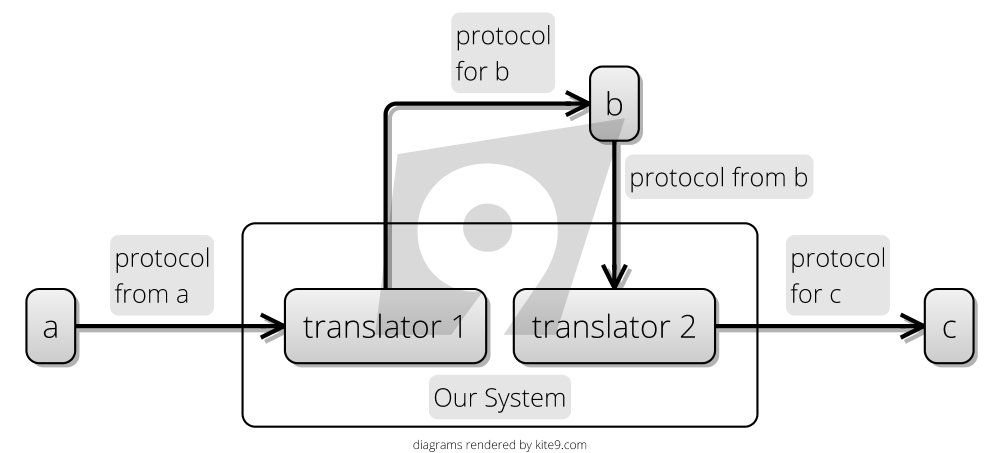
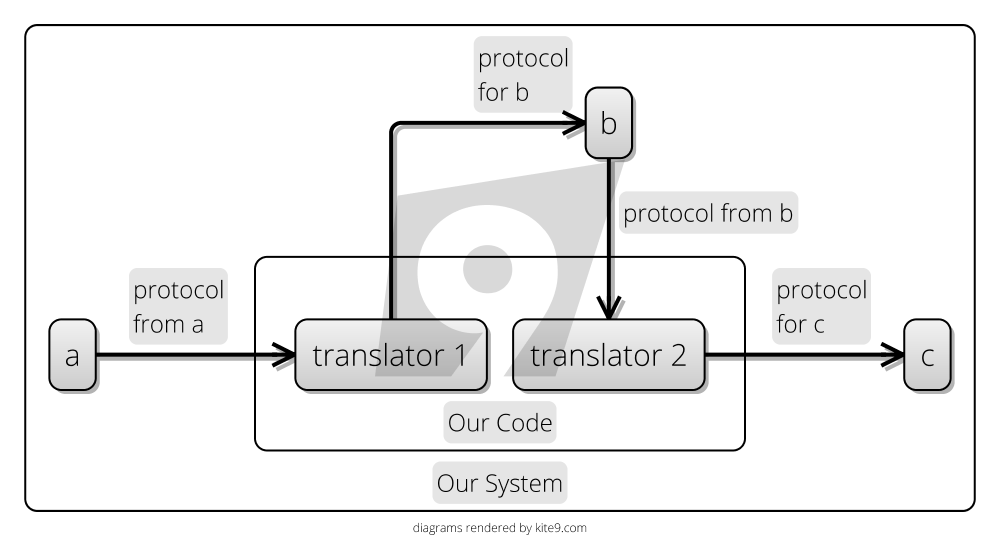
Boundary Risk

Changed region(s): [[0.0, 0.0309, 0.992, 1.0], [0.465, 0.5254, 0.496, 0.5563]]

diff --git a/menagerie/Boundary-Risk.md b/menagerie/Boundary-Risk.md
@@ -10,76 +10,86 @@ In terms of the [Risk Landscape](Risk-Landscape), [Boundary Risk](Boundary-Risk)
 
 And, as we discussed in [Complexity Risk](Complexity-Risk), there is always the chance we end up at a [Dead End](Complexity-Risk#dead-end-risk), and we've done work that we need to throw away.  In this case, we'll have to head back and make a different decision.
 
-## Emergence
+## Emergence Through Choice
 
 [Boundary Risk](Boundary-Risk) is an emergent risk, which exists at the intersection of [Complexity Risk](Complexity-Risk), [Dependency Risk](Dependency-Risk) and [Communication Risk](Communication-Risk).  Because of that, it's going to take a bit of time to pick it apart and understand it, so we're going to build up to this in stages.
 
-Let's start with an obvious example: Musical Instruments.  Let's say you want to learn to play some music.  There are a _multitude_ of options available to you, and you might choose an _uncommon_ instrument like a [Balalaika]() or a [Theremin](https://en.wikipedia.org/wiki/Theremin), or you might choose a _common_ one like a piano or guitar.   In any case, once you start learning this instrument, you have picked up the three risks above:  
+Let's start with an obvious example: Musical Instruments.  Let's say you want to learn to play some music.  There are a _multitude_ of options available to you, and you might choose an _uncommon_ instrument like a [Balalaika](https://en.wikipedia.org/wiki/Balalaika) or a [Theremin](https://en.wikipedia.org/wiki/Theremin), or you might choose a _common_ one like a piano or guitar.   In any case, once you start learning this instrument, you have picked up the three risks above:  
  - [Dependency Risk](Dependency-Risk) You have a _physical_ [Dependency]() on it in order to play music, so get to the music shop and buy one.
  - [Communication Risk](Communication-Risk):  You have to _communicate_ with the instrument in order to get it to make the sounds you want.  And you have [Learning Curve Risk](Communication-Risk#learning-curve-risk) in order to be able to do that.
  - [Complexity Risk](Complexity-Risk): As _a music playing system_, you now have an extra component (the instrument), with all the attendant complexity of looking after that instrument, tuning it, and so on.
 
-Those risks are true for _any_ instrument you choose.  However, if you choose the _uncommon_ instrument like the [Balalaika](), you have _worse_ [Boundary Risk](Boundary-Risk), because the _ecosystem_ for the balalaika is smaller.   It might be hard to find a tutor, or a band needing a balalaika.  You're unlikely to find one in a friend's house (compared to the piano, say).  
+Those risks are true for _any_ instrument you choose.  However, if you choose the _uncommon_ instrument like the [Balalaika](https://en.wikipedia.org/wiki/Balalaika), you have _worse_ [Boundary Risk](Boundary-Risk), because the _ecosystem_ for the balalaika is smaller.   It might be hard to find a tutor, or a band needing a balalaika.  You're unlikely to find one in a friend's house (compared to the piano, say).  
 
 Even choosing the Piano has [Boundary Risk](Boundary-Risk).  By spending your time learning to play the piano, you're mitigating [Communication Risk]() issues, but _mostly_, your skills won't be transferrable to playing the guitar.  Your decision to choose one instrument over another cements the [Boundary Risk](Boundary-Risk): you're following a path on the [Risk Landscape](Risk-Landscape) and changing to a different path is _expensive_.
 
 Also, it stands to reason that making _any_ choice is better than making _no_ choice, because you can't try and learn _all_ the instruments.  Doing that, you'd make no meaningful progress on any of them.
 
-## Integration And Translation
+## Boundary Risk For Software Dependencies
 
 Let's look at a software example now.
 
-As discussed in [Software Dependency Risk](Software-Dependency-Risk), if we are going to use a software tool as a dependency, we have to accept the complexity of it's [Interface](Software-Dependency-Risk#interfaces). 
+As discussed in [Software Dependency Risk](Software-Dependency-Risk), if we are going to use a software tool as a dependency, we have to accept the complexity of it's [Interface](Software-Dependency-Risk#interfaces), and learn the [protocol](Communication-Risk#protocol) of that interface.  If you want to work with it, you have to use it's protocol, it won't come to you.   
 
-Essentially, the interface is a [protocol](Communication-Risk#protocol):  it's the language that the tool understands.  If you want to work with it, you have to use it's protocol, it won't come to you.   
+Let's take a look at a hypothetical system structure:
 
-Let's take a look at a hypothetical project structure:
+![Our System receives data from the `input`, translates it and sends it to the `output`.  But which dependency should we use for the translation, if any?](images/kite9/boundary-risk-ps.png)
 
-![Our System receives data from `a`, translates it for `b` and then sends the result to `c` in a format it understands](images/kite9/boundary-risk-ps.png)
-
-In this design, we have 3 dependencies, `a`, `b`, `c`.  As you can see, `Our System` is orchestrating the flow of information between them:
- - First, it receives something from `a`, using the [Protocol](Communication-Risk#protocol-risk) of `a`.
- - Then, it **Translates** this into the [Protocol](Communication-Risk#protocol-risk) of `b`, retrieving something back from `b`.
- - Then, it **Translates** that into the [Protocol](Communication-Risk#protocol-risk) of `c`.
+In this design, we have are transforming data from the `input` to the `output`.  But how should we do it?
+ - We could go via `a`, using the [Protocols](Communication-Risk#protocol-risk) of `a`, and having a dependency on `a`.
+ - We could go via `b`, using the [Protocols](Communication-Risk#protocol-risk) of `b`, and having a dependency on `b`. 
+ - We could choose the middle route, and avoid the dependency, but potentially pick up lots more [Complexity Risk](Complexity-Risk) and [Schedule Risk](Schedule-Risk).
  
-You could say we are doing **Integration** of the different dependencies, or **Translation** between those dependencies.  Since we are talking about **Translation**, we are clearly talking about [Communication Risk](Communication-Risk) again:  our task in **Integrating** all of these components is _to get them to talk to each other_.
+This is a basic **Translation** job from `input` to `output`. Since we are talking about **Translation**, we are clearly talking about [Communication Risk](Communication-Risk) again:  our task in **Integrating** all of these components is _to get them to talk to each other_.
 
-From a [Cyclomatic Complexity]() point of view, this is a very simple structure, with low [Complexity](Complexity-Risk).  But each of these systems presents us with [Boundary Risk](Boundary-Risk), because we don't know that we'll be able to make them _talk to each other_ properly:
- - Maybe `a` outputs dates, in a strange calendar format that `b` won't understand.
- - Maybe `b` works on some streaming API basis, that is incompatible with `a`.
- - Maybe `c` runs on Windows, whereas `a` and `b` run on Linux.
+From a [Cyclomatic Complexity](Complexity-Risk#cyclomatic-complexity) point of view, this is a very simple structure, with low [Complexity](Complexity-Risk).  But the choice of approach presents us with [Boundary Risk](Boundary-Risk), because we don't know that we'll be able to make them _talk to each other_ properly:
+ - Maybe `a` outputs dates in a strange calendar format that we won't understand.
+ - Maybe `b` works on some streaming API basis, that is incompatible with the input protocol.
+ - Maybe `a` runs on Windows, whereas our code runs on Linux.
+ 
+... and so on.
 
-## Boundary Risk Defined
+## Boundary Risk Pinned Down
 
-Wherever we integrate dependencies with complex [Interfaces], we have [Boundary Risk].  The more complex the systems being integrated, the higher the risk.  When we choose software tools or libraries to help us build our systems, we are trading [Complexity Risk](Complexity-Risk) for [Boundary Risk](Boundary-Risk). It is:
+Wherever we integrate dependencies with complex [Protocols](Communication-Risk#protocol-risk), we potentially have [Boundary Risk](Boundary-Risk).  The more complex the systems being integrated, the higher the risk.  When we choose software tools or libraries to help us build our systems, we are trading [Complexity Risk](Complexity-Risk) for [Boundary Risk](Boundary-Risk). It is:
 
- - The _sunk cost_ of the [Learning Curve]() we've overcome to integrate the dependency.
- - The likelihood of, and costs of changing in the future.
+ - The _sunk cost_ of the [Learning Curve](Communication-Risk#learning-curve-risk) we've overcome to integrate the dependency, when it fails to live up to expectations.
+ - The likelihood of, and costs of changing in the future.  
+ - The rarity of alternatives (or, conversely, the risk of [Lock In](#vendor-lock-in). 
+ 
+![The tradeoff for using a library](images/kite9/software-dependency-library.png)
 
-We can mitigate attendant [Boundary Risk] by trying to choose the _simplest_ dependencies for any job, and also the smallest number of dependencies.  Let's look at some examples:
+As we saw in [Software Dependency Risk](Software-Dependency-Risk), [Boundary Risk](Boundary-Risk) is a big factor in choosing libraries and services.  However, it can apply to any kind of dependency:
+ - If you're depending on a [Process or Organisation](Process-Risk), they might change their products or quality, making the effort you put into the relationship worthless.
+ - If you're depending on [Staff](Agency-Risk#staff-risk), they might leave, meaning your efforts on training them don't pay back as well as you hoped.
+ - If you're depending on an [Event](Schedule-Risk) occuring at a particular time, you might have a lot of work to reorganise your life if it changes time or place.
 
-- `mkdirp` is an `npm` module defining a single function.  This function takes a single string parameter and recursively creating directories.  Because the [protocol](Communication-Risk) is so simple, there is almost no **Boundary Risk**.
-- Using a database with a standard JDBC driver comes with _some_ **Boundary Risk**:  but the boundary is specified by a standard.  Although the standard doesn't cover every aspect of the behaviour of the database, it does minimize risk, because if you are familiar with one JDBC driver, you'll be familiar with them all, and swapping one for another is relatively easy.
-- Using a framework like [Spring](), [Redux]() or [Angular]() comes with higher boundary risk:  you are expected to yield to the framework's way of behaving throughout your application.  You cannot separate the concern easily, and swapping out the framework for another is likely to leave you with a whole new set of assumptions and interfaces to deal with.
+## Avoiding Boundary Risk
 
-So **Boundary Risk** is the attendant [Complexity](Complexity-Risk) required to [Communicate]() with [Dependencies](Dependency-Risk).  Unless the project _ends_, (and you have nowhere else to go on the [Risk Landscape]()) you can never be completely sure that [Boundary Risk](Boundary-Risk) _isn't_ going to stop you making a move you want.  For example:
+Because of [Boundary Risk](Boundary-Risk)'s relationship to [Learning Curve Risk](Communication-Risk#learning-curve-risk), we can avoid accreting it by choose the _simplest_ and _fewest_ dependencies for any job.  Let's look at some examples:
+
+- `mkdirp` is an [npm](https://www.npmjs.com) module defining a single function.  This function takes a single string parameter and recursively creating directories.  Because the [protocol](Communication-Risk) is so simple, there is almost no [Boundary Risk](Boundary-Risk).
+- Using a database with a [JDBC](https://en.wikipedia.org/wiki/Java_Database_Connectivity) driver comes with _some_ [Boundary Risk](Boundary-Risk):  but the boundary is specified by a standard.  Although the standard doesn't cover every aspect of the behaviour of the database, it does minimize risk, because if you are familiar with one JDBC driver, you'll be familiar with them all, and swapping one for another is relatively easy.
+- Using a framework like [Spring](https://spring.io), [Redux](https://redux.js.org) or [Angular](https://angularjs.org) comes with higher [Boundary Risk](Boundary-Risk):  you are expected to yield to the framework's way of behaving throughout your application.  You cannot separate the concern easily, and swapping out the framework for another is likely to leave you with a whole new set of assumptions and interfaces to deal with.
+
+Unless your project _ends_, you can never be completely sure that [Boundary Risk](Boundary-Risk) _isn't_ going to stop you making a move you want.  For example:
  - `mkdirp` might not work on a new device's [Operating System](), forcing you to swap it out.
  - You might discover that the database you chose satisfied all the features you needed at the start of the project, but came up short when the requirements changed later on.
  - The front-end framework you chose might go out-of-fashion, and it might be hard to find developers interested in working on the project because of it.
+ 
+This third point is perhaps the most interesting aspect of [Boundary Risk](Boundary-Risk):  how can we ensure that the decisions we make now are future-proof?  In order to investigate this further, let's look at 3 things:  Plugins, Ecosystems and Evolution (again).  
 
 ## Plugins, Ecosystems and Evolution
 
 ### Plugins 
 
-Let's look at an example.
-
-On the face of it, [WordPress]() and [Drupal]() should be very similar:
- - They are both [Content Management Systems]()
- - They both use a [LAMP (Linux, Apache, MySql, PHP) Stack]()
- - They were both started around the same time.
+On the face of it, [WordPress](https://en.wikipedia.org/wiki/WordPress) and [Drupal](https://en.wikipedia.org/wiki/Drupal) _should_ be very similar:
+ - They are both [Content Management Systems](https://en.wikipedia.org/wiki/Content_management_system)
+ - They both use a [LAMP (Linux, Apache, MySql, PHP) Stack](https://en.wikipedia.org/wiki/LAMP_(software_bundle))
+ - They were both started around the same time (2001 for Drupal, 2003 for WordPress)
  - They are both Open-Source, and have a wide variety of plugins.
 
-In practice, they are very different.  This could be put down to different _design goals_:  it seems that [WordPress]() was focused much more on usability, and an easy learning curve, whereas [Drupal]() supported plugins for building things with complex data formats.  It could also be down to the _design decisions_:  although they both support [Plugins](), they do it in very different ways.  
+In practice, they are very different.  This could be put down to different _design goals_:  it seems that [WordPress](https://en.wikipedia.org/wiki/WordPress) was focused much more on usability, and an easy learning curve, whereas [Drupal](https://en.wikipedia.org/wiki/Drupal) supported plugins for building things with complex data formats.  It could also be down to the _design decisions_:  although they both support [Plugins](), they do it in very different ways.  
 
 (Side note: I wasn't short of go-to examples for this.  I could have picked on [Team City]() and [Jenkins]() here ([Continuous Integration]() tools, or [Maven]() and [Gradle]() (Java build tools).  In all cases, the choice of plugins I have is dependent on the platform I've chosen, despite the fact that the platforms are solving pretty much the same problem. )
 
@@ -93,21 +103,21 @@ You can think of the ecosystem as being like the footprint of a town or a city, 
 
 Systems and Ecosystems.
 
-Ecosystem size is a key determinant of boundary risk:  in a _large_ ecosystem, the diameter of the [boundary] is large, so [Boundary Risk](Boundary-Risk) is low.  Your moves on the [Risk Landscape](Glossary#risk-landscape) are unlikely to collide with it.  The boundary _got large_ because other developers before you hit the boundary and did the work building bridges, roads and pushing it back so that the boundary didn't get in their way.  In a small ecosystem, you are much more likely to come into contact with the edges of the boundary.  _You_ will have to be the developer that pushes back the frontier and builds the roads for the others.  This is hard work.
+Ecosystem size is a key determinant of [Boundary Risk](Boundary-Risk):  in a _large_ ecosystem, the diameter of the [boundary] is large, so [Boundary Risk](Boundary-Risk) is low.  Your moves on the [Risk Landscape](Glossary#risk-landscape) are unlikely to collide with it.  The boundary _got large_ because other developers before you hit the boundary and did the work building bridges, roads and pushing it back so that the boundary didn't get in their way.  In a small ecosystem, you are much more likely to come into contact with the edges of the boundary.  _You_ will have to be the developer that pushes back the frontier and builds the roads for the others.  This is hard work.
 
 ### Evolution
 
-This is a crucial determinant of **Boundary Risk**:  given the same problems, people will approach them and solve them in different ways.  And, this will impact the 'shape' of the abstractions, and the APIs that you end up with.  [Complexity] emerges from the solution, as the solution gets more complex and opinionated, much like the way in which the network of a city will evolve over time in an unpredictable way.
+This is a crucial determinant of [Boundary Risk](Boundary-Risk):  given the same problems, people will approach them and solve them in different ways.  And, this will impact the 'shape' of the abstractions, and the APIs that you end up with.  [Complexity] emerges from the solution, as the solution gets more complex and opinionated, much like the way in which the network of a city will evolve over time in an unpredictable way.
 
 In the real world, there is a tendency for _big cities to get bigger_.  The more people that live there, the more services they provide, and therefore, the more immigrants they attract.  And, it's the same in the software world.  In both cases, this is due to the [Network Effect]:
 
 tbd.
 
-You can see the same effect in the adoption rates of [Wordpress]() and [Drupal]().  
+You can see the same effect in the adoption rates of [WordPress](https://en.wikipedia.org/wiki/WordPress) and [Drupal](https://en.wikipedia.org/wiki/Drupal).  
 
 tbd.  graphs of adoption
 
-Nowadays, the [WordPress]() user base is huge:  approximately tbd 30% of all websites are hosted with [WordPress]().  For [Drupal]() it's tbd.  That it's this way round could be entirely accidental.  Is this because [WordPress]() is _better_ than [Drupal]()? That's arguable.  But, by now _it should be_: there are so many people in this ecosystem:
+Nowadays, the [WordPress](https://en.wikipedia.org/wiki/WordPress) user base is huge:  approximately tbd 30% of all websites are hosted with [WordPress](https://en.wikipedia.org/wiki/WordPress).  For [Drupal](https://en.wikipedia.org/wiki/Drupal) it's tbd.  That it's this way round could be entirely accidental.  Is this because [WordPress](https://en.wikipedia.org/wiki/WordPress) is _better_ than [Drupal](https://en.wikipedia.org/wiki/Drupal)? That's arguable.  But, by now _it should be_: there are so many people in this ecosystem:
  - Creating web sites.
  - Using those sites.
  - Submitting bug requests.
@@ -117,7 +127,7 @@ Nowadays, the [WordPress]() user base is huge:  approximately tbd 30% of all web
  - Creating features.
  - Improving the core platform.
  
-... that by now _it should be miles better_ than [Drupal]().  But, there are other things to consider...
+... that by now _it should be miles better_ than [Drupal](https://en.wikipedia.org/wiki/Drupal).  But, there are other things to consider...
 
 ### The Peter Principle
 
@@ -162,7 +172,7 @@ tbd. diagram here.
 
 ## Boundary-Crossing With Standards
 
-Sometimes, technology comes along that allows us to cross boundaries, like a _bridge_ or a _road_.  This has the effect of making it easy to to go from one self-contained [ecosystem]() to another.  Going back to [Wordpress](), a simple example might be the [Analytics Dashboard]() which provides [Google Analytics]() functionality inside [WordPress]().  Or, the [SVG Plugin](), which allows you to use [SVG images]() within [WordPress]().  I find, a lot of code I write is of this nature:  trying to write the _glue code_ to together two different _ecosystems_.   
+Sometimes, technology comes along that allows us to cross boundaries, like a _bridge_ or a _road_.  This has the effect of making it easy to to go from one self-contained [ecosystem]() to another.  Going back to [WordPress](https://en.wikipedia.org/wiki/WordPress), a simple example might be the [Analytics Dashboard]() which provides [Google Analytics]() functionality inside [WordPress](https://en.wikipedia.org/wiki/WordPress).  Or, the [SVG Plugin](), which allows you to use [SVG images]() within [WordPress](https://en.wikipedia.org/wiki/WordPress).  I find, a lot of code I write is of this nature:  trying to write the _glue code_ to together two different _ecosystems_.   
 
 - [ASCII](): fixed the different-character-sets boundary risk by being a standard that others could adopt.  Before everyone agreed on ASCII, copying data from one computer system to another was a massive pain, and would involve some kind of translation.  [UTF]() continues this work to ensure we don't have to worry about **Translation** from one encoding to another.  This is an example of mitigating [Boundary Risk](Boundary-Risk) with standards.  One of the problems with this is that _you have to get everyone to change to using the standard_ and this isn't always a given.  
 
@@ -314,7 +324,7 @@ The next question, is why did Microsoft _stop_ pursuing this strategy?  It seems
 You can't always be sure that a dependency now will always have the same guarantees in the future: 
 - **Ownership changes**  [Microsoft]() buys [Github]().  What will happen to the ecosystem around github now?
 - **Licensing changes**.  (e.g. [Oracle](http://oracle.com) buys **Tangosol** who make [Coherence](https://en.wikipedia.org/wiki/Oracle_Coherence) for example).  Having done this, they increase the licensing costs of Tangosol to huge levels, milking the [Cash Cow]() of the installed user-base, but ensuring no-one else is likely to use it.
-- **Better alternatives become available**:  As a real example of this, I began a project in 2016 using [Apache Solr]().  However, in 2018, I would probably use [ElasticSearch](https://en.wikipedia.org/wiki/Elasticsearch).  In the past, I've built websites using [Drupal]() and then later converted them to use [Wordpress]().
+- **Better alternatives become available**:  As a real example of this, I began a project in 2016 using [Apache Solr]().  However, in 2018, I would probably use [ElasticSearch](https://en.wikipedia.org/wiki/Elasticsearch).  In the past, I've built websites using [Drupal](https://en.wikipedia.org/wiki/Drupal) and then later converted them to use [WordPress](https://en.wikipedia.org/wiki/WordPress).
 
 ## Patterns In Boundary Risk
 
